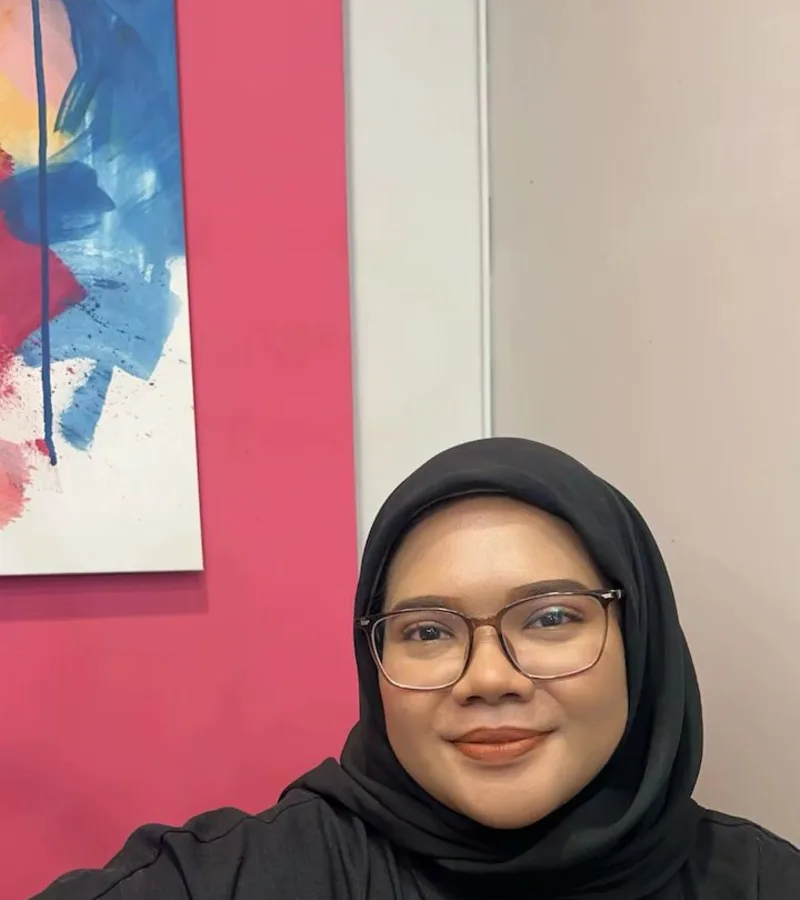
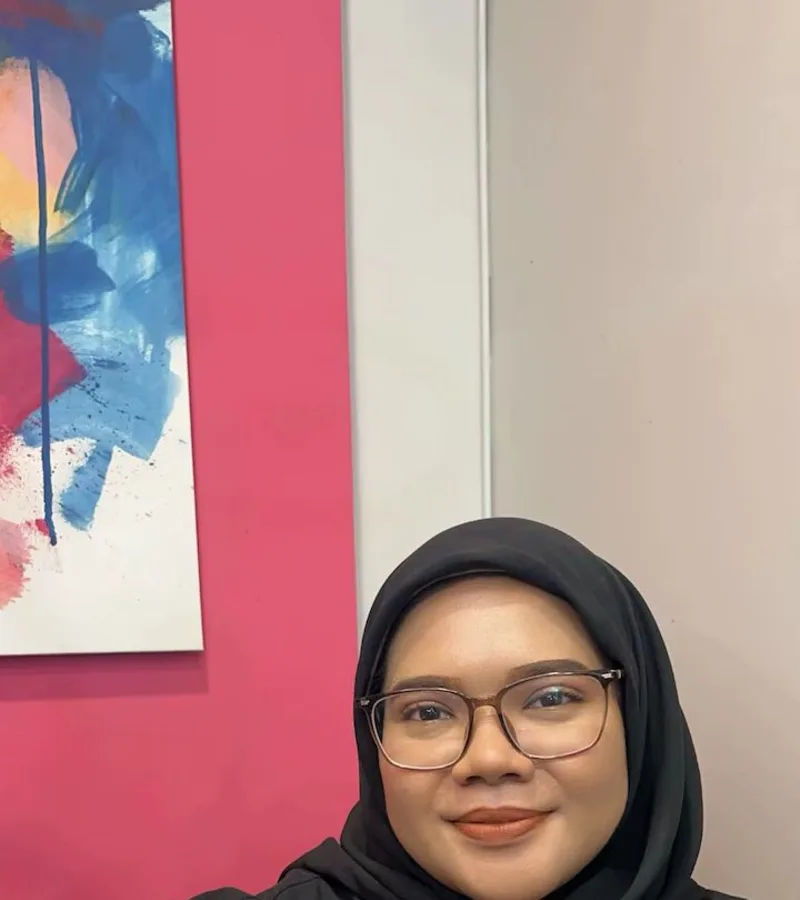
fix: correct Aisyah photo (unique filename) + Ameera max headroom crop

diff --git a/app/salons/shah-alam/page.jsx b/app/salons/shah-alam/page.jsx
@@ -188,7 +188,7 @@ const stylists = [
   },
   {
     name: 'Aisyah',
-    photo: '/images/aisyah-profile-pic.webp',
+    photo: '/images/aisyah-sa-final.webp',
     alt: 'Aisyah, hairstylist at Dashing Diva Shah Alam, blowout and styling specialist at Kompleks PKNS',
     years: '5 Years Experience',
     joined: null,